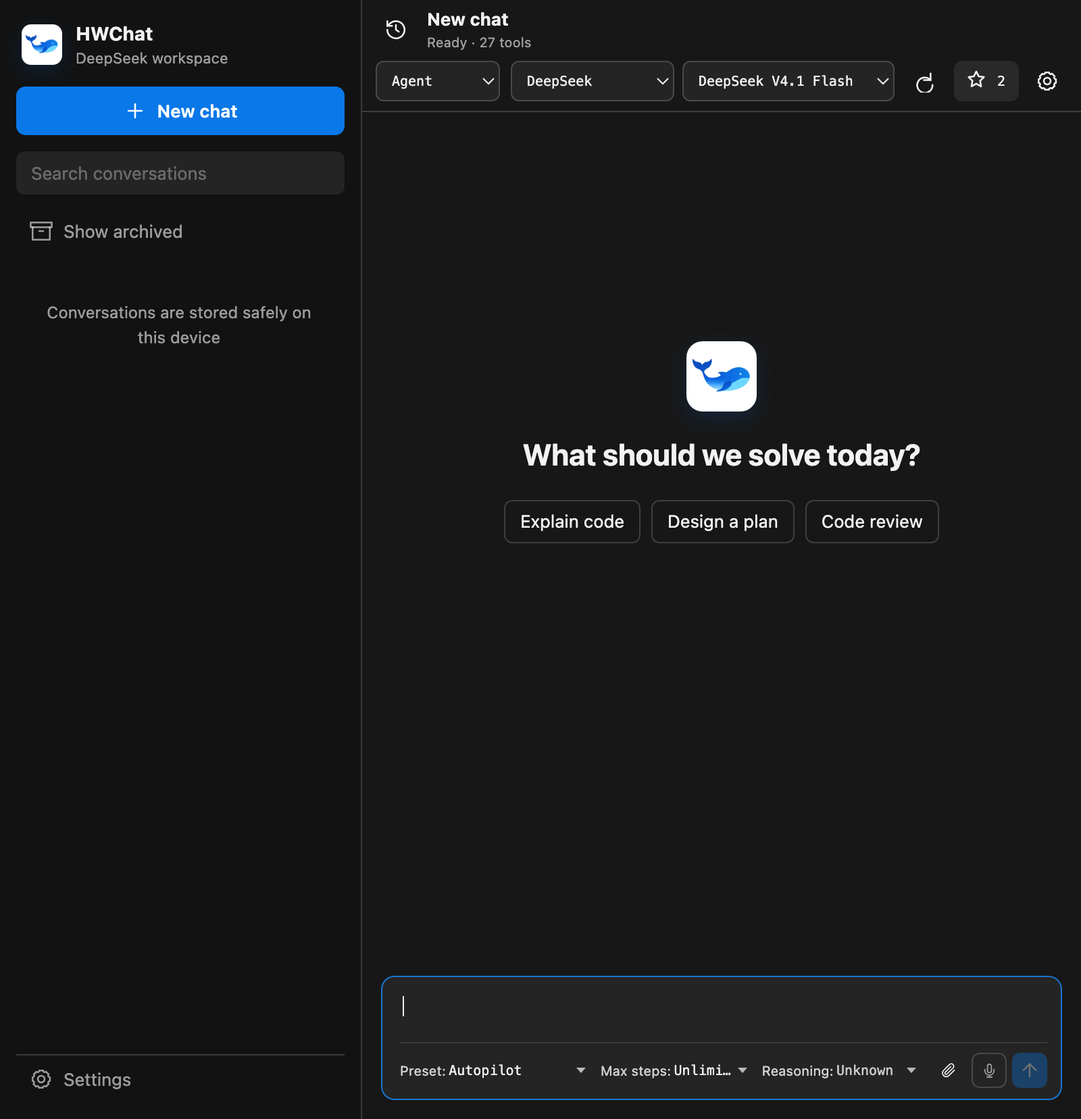
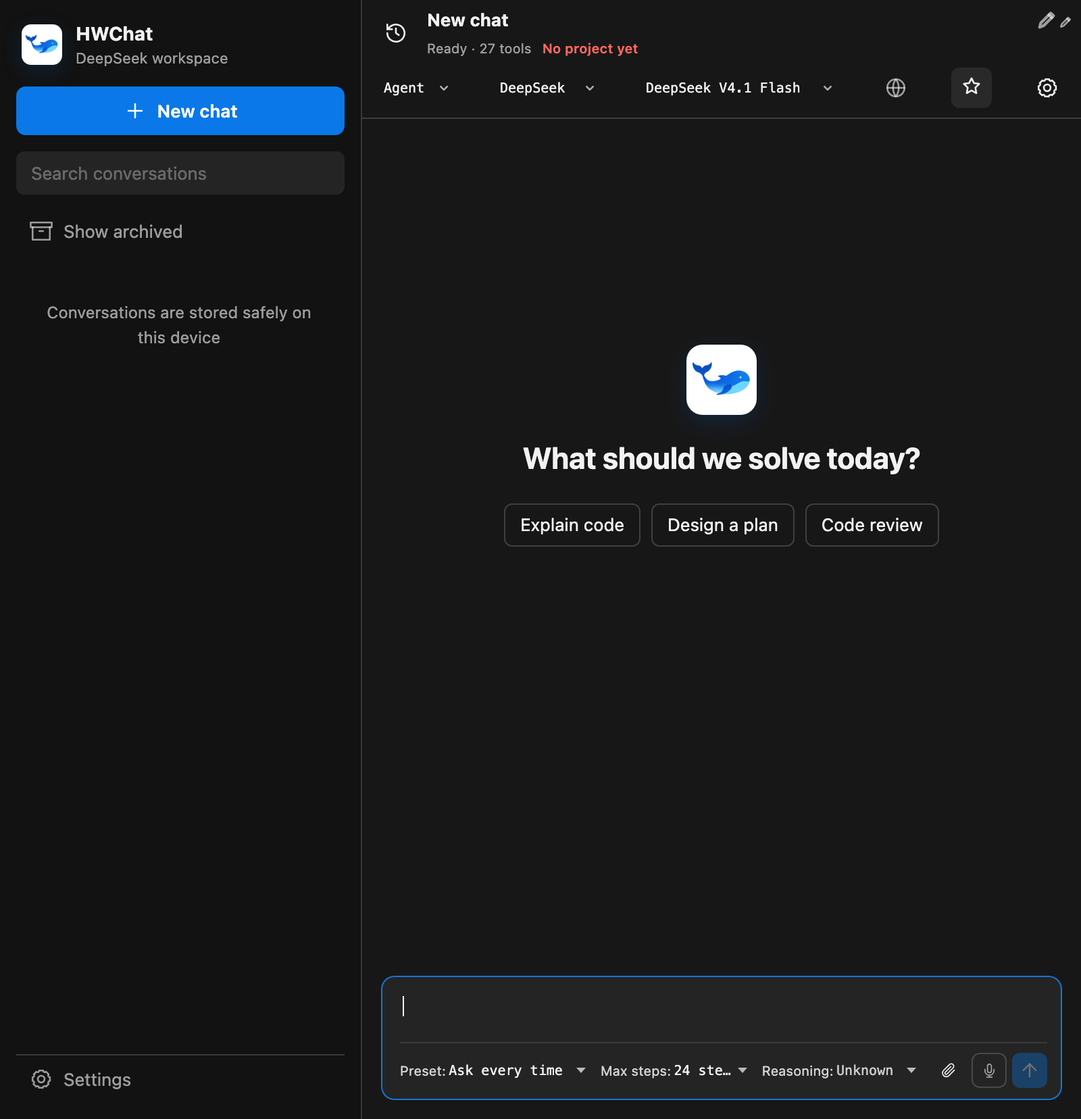
release: 0.3.8 — close the three audit gaps
1. hwchat.proxy and hwchat.searchExclude had no UI at all; the only way to set
   them was editing settings.json, and the proxy is precisely the escape hatch
   when requests fail (Node's fetch ignores HTTPS_PROXY, VS Code's http.proxy
   does not cover extensions). Adds "API proxy" under Connection (validated on
   save: socks:// rejected with a hint, malformed URLs refused, empty = direct)
   and "Search exclusions" under Agent (comma / ideographic comma / newline,
   normalised to a de-duplicated array, read back as the union across workspace
   roots because the setting is resource-scoped).

2. src/views/historyView.ts was dead code - HistoryViewProvider was written but
   never registered. Connected rather than deleted: the Explorer now shows an
   "HWChat conversations" tree (only when a folder is open) so history is
   reachable without opening the chat panel; it refreshes from onHistoryChanged
   and is disposed with the extension.

3. The README architecture table was stale: src/providers/ claimed to hold only
   the client (it also has netDiagnostics, netProbe and proxyFetch), src/core,
   src/agent and media were missing a dozen modules, and test/ claimed 44 checks
   while listing ~22 as if the list were exhaustive. Rewritten, with an explicit
   "run ls test/check-*.mjs for the full set" and both view entry points
   documented.

Also fixed the public screenshot: build.mjs referenced english['chat.unlimited']
[…]

diff --git a/src/views/settingsPanel.ts b/src/views/settingsPanel.ts
@@ -337,6 +337,7 @@ export class SettingsPanel implements vscode.Disposable {
             <label class="setting-row setting-row-stack"><span><strong>${t(lang, 'settings.models.label')}</strong><small>${t(lang, 'settings.models.hint')}</small></span><textarea id="profileModels" class="control mono" rows="4" spellcheck="false"></textarea></label>
             <label class="setting-row setting-row-stack"><span><strong>${t(lang, 'settings.headers.label')}</strong><small>${t(lang, 'settings.headers.hint')}</small></span><textarea id="requestHeaders" class="control mono" rows="4" spellcheck="false"></textarea></label>
             <label class="setting-row"><span><strong>${t(lang, 'settings.timeout.label')}</strong><small>${t(lang, 'settings.timeout.hint')}</small></span><span class="stepper"><input id="requestTimeoutSeconds" type="number" min="10" max="900"><span>${t(lang, 'common.seconds')}</span></span></label>
+            <label class="setting-row"><span><strong>${t(lang, 'settings.proxy.label')}</strong><small>${t(lang, 'settings.proxy.hint')}</small></span><input id="proxy" class="control mono" type="text" spellcheck="false" placeholder="http://127.0.0.1:7897"></label>
           </div>
         </section>
         <section id="generation" class="settings-section">
@@ -353,6 +354,7 @@ export class SettingsPanel implements vscode.Disposable {
           <div class="section-heading"><h2>${t(lang, 'settings.agent.title')}</h2><span id="trustState" class="status-pill">${t(lang, 'settings.trustStatePlaceholder')}</span></div>
           <div class="settings-group">
             <label class="setting-row"><span><strong>${t(lang, 'settings.defaultMode.label')}</strong><small>${t(lang, 'settings.defaultMode.hint')}</small></span><select id="defaultMode" class="control"><option value="agent">Agent</option><option value="plan">Plan</option><option value="chat">Chat</option></select></label>
+            <label class="setting-row"><span><strong>${t(lang, 'settings.searchExclude.label')}</strong><small>${t(lang, 'settings.searchExclude.hint')}</small></span><input id="searchExclude" class="control mono" type="text" spellcheck="false" placeholder="dist, .next, vendor"></label>
             <label class="setting-row"><span><strong>${t(lang, 'settings.commandTimeout.label')}</strong></span><span class="stepper"><input id="maxCommandSeconds" type="number" min="5" max="900"><span>${t(lang, 'common.seconds')}</span></span></label>
             <label class="setting-row"><span><strong>${t(lang, 'settings.readLimit.label')}</strong></span><span class="stepper"><input id="maxReadBytes" type="number" min="16384" max="5242880"><span>bytes</span></span></label>
             <label class="setting-row"><span><strong>${t(lang, 'settings.toolOutputLimit.label')}</strong></span><span class="stepper"><input id="maxToolOutputBytes" type="number" min="16384" max="2097152"><span>bytes</span></span></label>
@@ -449,6 +451,32 @@ function validateSettings(values: Partial<ChatSettings>): Partial<ChatSettings> 
   }
   if (values.permissionPreset !== undefined && !['askAll', 'review', 'autopilot', 'full'].includes(values.permissionPreset)) {
     throw new Error(tt('error.presetInvalid'));
+  }
+  /*
+   * 代理写错会让**所有**请求都失败，所以在保存时就拦下来，并明确说清不支持 socks://。
+   * 空字符串是合法的（= 直连），不要当成错误。
+   */
+  if (values.proxy !== undefined) {
+    const raw = String(values.proxy ?? '').trim();
+    if (raw) {
+      if (/^socks/i.test(raw)) throw new Error(tt('error.proxySocks'));
+      let parsed: URL;
+      try {
+        parsed = new URL(raw);
+      } catch {
+        throw new Error(tt('error.proxyInvalid'));
+      }
+      if (!['http:', 'https:'].includes(parsed.protocol)) throw new Error(tt('error.proxyInvalid'));
+      result.proxy = raw;
+    } else {
+      result.proxy = '';
+    }
+  }
+  if (values.searchExclude !== undefined) {
+    if (!Array.isArray(values.searchExclude) || values.searchExclude.some((item) => typeof item !== 'string')) {
+      throw new Error(tt('error.searchExcludeInvalid'));
+    }
+    result.searchExclude = [...new Set(values.searchExclude.map((item) => item.trim()).filter(Boolean))].slice(0, 100);
   }
   for (const key of ['fileReadPolicy', 'fileWritePolicy', 'commandPolicy', 'dangerousCommandPolicy', 'sensitiveFilePolicy'] as const) {
     const value = values[key];

diff --git a/src/core/i18n.ts b/src/core/i18n.ts
@@ -599,6 +599,8 @@ const DICTIONARY: Record<string, Entry> = {
   'settings.models.hint': { zh: '每行一个模型名，对话面板会显示为下拉列表', en: 'One model per line; the chat panel shows them as a dropdown' },
   'settings.headers.label': { zh: '额外请求头', en: 'Extra request headers' },
   'settings.headers.hint': { zh: 'JSON 对象，不包含 Authorization', en: 'JSON object, without Authorization' },
+  'settings.proxy.label': { zh: '接口代理', en: 'API proxy' },
+  'settings.proxy.hint': { zh: '留空表示直连。填 HTTP 代理，例如 http://127.0.0.1:7897（不支持 socks://，请填代理软件给出的 HTTP 端口）。扩展不会自动读取 HTTPS_PROXY 环境变量，也不会继承 VS Code 的 http.proxy。', en: 'Empty means direct. Use an HTTP proxy such as http://127.0.0.1:7897 (socks:// is not supported - use the HTTP port your proxy app exposes). The extension does not read HTTPS_PROXY or inherit VS Code http.proxy.' },
   'settings.timeout.label': { zh: '请求超时', en: 'Request timeout' },
   'settings.timeout.hint': { zh: '10–900 秒', en: '10–900 seconds' },
 
@@ -629,6 +631,8 @@ const DICTIONARY: Record<string, Entry> = {
   'settings.maxSteps.label': { zh: '新对话的最大执行步骤', en: 'Max agent steps for new chats' },
   'settings.maxSteps.hint': { zh: '默认 {default} 步，四档可选（含「无限制」）；也可在对话输入框下方即时调整，只影响当前对话', en: 'Defaults to {default} steps; four presets including Unlimited. Also adjustable under the composer, per conversation' },
   'settings.stepsUnit': { zh: '步', en: 'steps' },
+  'settings.searchExclude.label': { zh: '搜索排除目录', en: 'Search exclusions' },
+  'settings.searchExclude.hint': { zh: '逗号分隔，在内置排除（.git、node_modules、dist…）之外追加', en: 'Comma separated, added on top of the built-in list (.git, node_modules, dist…)' },
   'settings.commandTimeout.label': { zh: '命令超时', en: 'Command timeout' },
   'settings.readLimit.label': { zh: '单文件读取上限', en: 'Per-file read limit' },
   'settings.toolOutputLimit.label': { zh: '工具输出上限', en: 'Tool output limit' },
@@ -705,6 +709,9 @@ const DICTIONARY: Record<string, Entry> = {
 
   // 校验错误
   'error.headersInvalidJson': { zh: '额外请求头不是有效的 JSON。', en: 'Extra request headers are not valid JSON.' },
+  'error.proxySocks': { zh: '不支持 socks:// 代理，请填代理软件给出的 HTTP 端口（例如 http://127.0.0.1:7897）。', en: 'socks:// proxies are not supported. Use the HTTP port your proxy app exposes (for example http://127.0.0.1:7897).' },
+  'error.proxyInvalid': { zh: '代理地址无效，需要写成 http://主机:端口 的形式，留空表示直连。', en: 'Invalid proxy address. Use http://host:port, or leave it empty for a direct connection.' },
+  'error.searchExcludeInvalid': { zh: '搜索排除项必须是目录名列表。', en: 'Search exclusions must be a list of directory names.' },
   'error.headersNotObject': { zh: '额外请求头必须是 JSON 对象。', en: 'Extra request headers must be a JSON object.' },
   'error.headerValueNotString': { zh: '请求头 {key} 的值必须是字符串。', en: 'The value of header {key} must be a string.' },
   'error.profileIncomplete': { zh: '请补全每个 API 配置档的名称和接口地址。', en: 'Fill in the name and endpoint for every API profile.' },

diff --git a/src/core/settings.ts b/src/core/settings.ts
@@ -19,6 +19,34 @@ const SECTION = 'hwchat';
  */
 export const DEFAULT_REASONING_EFFORT: ReasoningEffort = 'default';
 
+/**
+ * 读出追加的搜索排除目录（全局 + 每个工作区根，取并集）。
+ *
+ * 与 `workspaceSearch.readConfiguredExcludes` 同一套语义：这是 resource 作用域的配置，
+ * 只看无 resource 的合并视图会在多根工作区里「写了但读不到」。设置页需要把用户写过的
+ * 全部条目原样显示出来，所以这里也按根逐个读再合并。
+ */
+function readSearchExclude(): string[] {
+  const collected = new Set<string>();
+  const add = (value: unknown): void => {
+    if (!Array.isArray(value)) return;
+    for (const item of value) {
+      if (typeof item !== 'string') continue;
+      const cleaned = item.trim();
+      if (cleaned) collected.add(cleaned);
+    }
+  };
+  try {
+    add(vscode.workspace.getConfiguration('hwchat').get<unknown>('searchExclude', []));
+    for (const folder of vscode.workspace.workspaceFolders ?? []) {
+      add(vscode.workspace.getConfiguration('hwchat', folder.uri).get<unknown>('searchExclude', []));
+    }
+  } catch {
+    return [...collected];
+  }
+  return [...collected];
+}
+
 export function readSettings(): ChatSettings {
   const configuration = vscode.workspace.getConfiguration(SECTION);
   const legacyBaseUrl = configuration.get<string>('baseUrl', 'https://api.deepseek.com');
@@ -61,6 +89,7 @@ export function readSettings(): ChatSettings {
     requestHeaders: activeProfile.requestHeaders,
     requestTimeoutSeconds: clamp(configuration.get<number>('requestTimeoutSeconds', 120), 10, 900),
     proxy: String(configuration.get<string>('proxy', '') ?? '').trim(),
+    searchExclude: readSearchExclude(),
     defaultMode: resolveConversationMode(configuration.get<unknown>('defaultMode'), 'agent'),
     agentMaxSteps: DEFAULT_AGENT_MAX_STEPS,
     reasoningEffort: DEFAULT_REASONING_EFFORT,
@@ -107,6 +136,7 @@ export async function updateSettings(values: Partial<ChatSettings>): Promise<voi
     ['maxReadBytes', values.maxReadBytes],
     ['maxToolOutputBytes', values.maxToolOutputBytes],
     ['maxCommandSeconds', values.maxCommandSeconds],
+    ['searchExclude', values.searchExclude],
     ['auditRetentionDays', values.auditRetentionDays],
     ['language', values.language === undefined ? undefined : normalizeLanguageSetting(values.language)],
   ];

diff --git a/media/settings.js b/media/settings.js
@@ -20,12 +20,12 @@
   }
 
   const fieldIds = [
-    'apiKey', 'profileName', 'profileModels', 'baseUrl', 'model', 'requestHeaders', 'requestTimeoutSeconds',
+    'apiKey', 'profileName', 'profileModels', 'baseUrl', 'model', 'requestHeaders', 'requestTimeoutSeconds', 'proxy',
     'temperature', 'maxTokens', 'maxMessagesInContext', 'sendOnEnter',
     'systemPrompt', 'historyRetentionDays', 'taskCacheRetentionHours',
     'cacheBudgetMB', 'cleanupIntervalMinutes', 'defaultMode',
     'maxReadBytes', 'maxToolOutputBytes',
-    'maxCommandSeconds', 'auditRetentionDays', 'language',
+    'maxCommandSeconds', 'auditRetentionDays', 'language', 'searchExclude',
   ];
   const fields = Object.fromEntries(fieldIds.map((id) => [id, document.getElementById(id)]));
   const elements = {
@@ -104,6 +104,7 @@
       model: selectedModel,
       requestHeaders,
       requestTimeoutSeconds: numberValue(fields.requestTimeoutSeconds, 120),
+      proxy: fields.proxy.value.trim(),
       temperature: numberValue(fields.temperature, 1),
       maxTokens: numberValue(fields.maxTokens, 0),
       maxMessagesInContext: numberValue(fields.maxMessagesInContext, 20),
@@ -118,6 +119,12 @@
       maxToolOutputBytes: numberValue(fields.maxToolOutputBytes, 200000),
       maxCommandSeconds: numberValue(fields.maxCommandSeconds, 120),
       auditRetentionDays: numberValue(fields.auditRetentionDays, 30),
+      // 用户在输入框里可能用逗号、顿号或换行分隔；统一拆成数组并去重去空。
+      searchExclude: fields.searchExclude.value
+        .split(/[,，\n]/)
+        .map((item) => item.trim())
+        .filter(Boolean)
+        .filter((item, index, list) => list.indexOf(item) === index),
     };
   }
 
@@ -198,6 +205,8 @@
     fields.apiKey.value = '';
     fields.apiKey.placeholder = apiKeyConfigured ? t('settings.apiKey.savedPlaceholder') : 'sk-…';
     fields.requestTimeoutSeconds.value = settings.requestTimeoutSeconds;
+    fields.proxy.value = settings.proxy || '';
+    fields.searchExclude.value = Array.isArray(settings.searchExclude) ? settings.searchExclude.join(', ') : '';
     fields.temperature.value = settings.temperature;
     fields.maxTokens.value = settings.maxTokens;
     fields.maxMessagesInContext.value = settings.maxMessagesInContext;

diff --git a/src/extension.ts b/src/extension.ts
@@ -15,6 +15,7 @@ import { formatProbeReport, probeEndpoint } from './providers/netProbe';
 import { fetchViaProxy } from './providers/proxyFetch';
 import { proxyEnv } from './providers/netDiagnostics';
 import { ChatPanel } from './views/chatPanel';
+import { HistoryViewProvider } from './views/historyView';
 import { SettingsPanel } from './views/settingsPanel';
 import { tt } from './core/i18n';
 
@@ -92,6 +93,18 @@ export async function activate(context: vscode.ExtensionContext): Promise<void> 
     (line) => output.warn(line),
   );
   let settingsPanel!: SettingsPanel;
+  /*
+   * 资源管理器里的「HWChat 对话」列表。
+   *
+   * 这个 provider 之前写了却从没注册过（盘点时发现的死代码）。接上的好处：不打开聊天
+   * 面板也能点开一条历史对话，而且面板关闭时历史依然可见。它只读 `listConversations`，
+   * 与面板侧栏是同一份数据，任何一侧改动都会通过 `onHistoryChanged` 触发刷新。
+   */
+  const historyView = new HistoryViewProvider(storage);
+  context.subscriptions.push(
+    vscode.window.registerTreeDataProvider('hwchat.historyView', historyView),
+    historyView,
+  );
   const chat = new ChatPanel(
     context.extensionUri,
     context.globalStorageUri,
@@ -102,6 +115,8 @@ export async function activate(context: vscode.ExtensionContext): Promise<void> 
     toolExecutor,
     {
       onHistoryChanged: () => {
+        // 两份列表读的是同一份存储：改名、置顶、归档、删除、运行状态都会走到这里。
+        historyView.refresh();
         void settingsPanel?.refresh();
       },
       openSettings: () => void settingsPanel.open(),

diff --git a/src/core/types.ts b/src/core/types.ts
@@ -322,6 +322,14 @@ export interface ChatSettings {
   cacheBudgetMB: number;
   cleanupIntervalMinutes: number;
   maxMessagesInContext: number;
+  /**
+   * 追加的搜索排除目录名（`hwchat.searchExclude`）。
+   *
+   * 声明为可选：这是 resource 作用域的配置（多根工作区里用户可能只写在某个根的
+   * `.vscode/settings.json` 里），读取侧由 `workspaceSearch` 逐根取并集；设置页只
+   * 负责把它呈现成一个逗号分隔的输入框并写回。可选能让既有测试夹具不必逐个补字段。
+   */
+  searchExclude?: string[];
   requestHeaders: Record<string, string>;
   requestTimeoutSeconds: number;
   /**

diff --git a/README.md b/README.md
@@ -315,7 +315,7 @@ The extension icon is `resources/logo.png`. Press `F5` in VS Code to launch the 
 - `hwchat.apiProfiles` / `hwchat.activeApiProfileId` — OpenAI-compatible profiles and the active one.
 - `hwchat.baseUrl` / `hwchat.model` — legacy-compatible endpoint and current default model.
 - `hwchat.defaultMode` / `hwchat.agentMaxSteps` — default mode and per-turn tool-loop budget. The budget **defaults to 24 and is capped at 200**; `0` (the old "unlimited") and invalid values fall back to the default, so an old saved conversation can never bypass the cap. When the budget runs out the agent stops calling tools, keeps every result, and tells you to reply "continue". **Both only seed new conversations**; once a conversation exists its own record wins and panel changes are written back to that conversation.
-- `hwchat.searchExclude` — extra directory names excluded from HWChat's workspace search, on top of the built-in list (`.git`, `node_modules`, `dist`, `build`, `out`, `coverage`, `.next`, `.turbo`, `.venv`, `venv`, `__pycache__`, `DerivedData`, `.cache`). Searches also run one at a time, identical concurrent searches are merged, and results are cached for ~1.5 s with invalidation on every write/save/delete. Commands get their own limit of two and drop to one at a time for 5 s after an `EAGAIN`-class resource error. The skill list is no longer rescanned on every state push (30 s freshness window plus request coalescing, with watcher-driven forced refreshes), command output is accumulated within a byte budget instead of re-encoding the whole buffer per chunk, and history is read once instead of twice at startup. `HWChat: Show resource stats` prints live search/command counters for troubleshooting.
+- `hwchat.searchExclude` — extra directory names excluded from HWChat's workspace search (editable in **Settings → Agent → Search exclusions**; commas, ideographic commas and newlines all work), on top of the built-in list (`.git`, `node_modules`, `dist`, `build`, `out`, `coverage`, `.next`, `.turbo`, `.venv`, `venv`, `__pycache__`, `DerivedData`, `.cache`). Searches also run one at a time, identical concurrent searches are merged, and results are cached for ~1.5 s with invalidation on every write/save/delete. Commands get their own limit of two and drop to one at a time for 5 s after an `EAGAIN`-class resource error. The skill list is no longer rescanned on every state push (30 s freshness window plus request coalescing, with watcher-driven forced refreshes), command output is accumulated within a byte budget instead of re-encoding the whole buffer per chunk, and history is read once instead of twice at startup. `HWChat: Show resource stats` prints live search/command counters for troubleshooting.
 - `hwchat.reasoningEffort` — five levels (default, none, low, high, max). The picker follows **what the model itself declares** (DeepSeek's `/models` lists `low`/`high`/`max` under `effort.supported_levels`; `none` is not in that list because it means "thinking off", so it is always offered for any reasoning-capable model). Choosing "none" really turns thinking off (`thinking: {type:'disabled'}` + `reasoning_effort: 'none'`). Endpoints without support get an automatic retry. Also only a default for new conversations.
 - `hwchat.permissionPreset`, `hwchat.agentMaxSteps`, `hwchat.reasoningEffort` — **deprecated, no effect**. Every new conversation starts at “Ask every time” / 24 steps / “Default (model)”; adjust the three under the composer for the current conversation (24 / 68 / 120 / unlimited; Default / none / the depths the model declares; four presets) and the choice is stored with that conversation. The keys stay registered only so old `settings.json` files do not report unknown settings.
 - `hwchat.fileReadPolicy` / `hwchat.fileWritePolicy` / `hwchat.commandPolicy` / `hwchat.dangerousCommandPolicy` / `hwchat.sensitiveFilePolicy` — fully derived from the preset; display-only, marked deprecated in the VS Code settings UI.
@@ -327,7 +327,7 @@ The extension icon is `resources/logo.png`. Press `F5` in VS Code to launch the 
 - **The message list only renders the screen you are looking at.** Copilot's chat list is VS Code's `WorkbenchObjectTree` — a virtualized list where off-screen rows have no DOM at all — while HWChat used to render every message it knew about. Measured: 600 messages with six tool steps each came to 38,400 nodes and **+231.6 MB** of renderer memory, at a flat ~0.39 MB per message from 50 to 600 messages. Now only the viewport (plus eight messages of overscan on each side) is in the DOM, with two spacer blocks holding the height of the rest: **+23.4 MB / 706 nodes**, and a 200-message conversation drops from +83.1 MB to **+16.3 MB**. Three promises hold this together: a window swap re-anchors on the message at the top of the viewport and its exact on-screen offset (so scrollbar drags, PageUp and loading older messages never jump), the bottom is pixel-exact because the last window has no trailing spacer, and details you expanded are remembered in `detailOverrideStore` so they are still expanded when you scroll back. Conversations under 60 messages still render in full — at that size it is a few MB and not worth the complexity. **The trade-off**: a selection can only span messages currently in the DOM, and "scroll to latest" jumps instead of animating (a smooth animation re-measures the scroll height every frame, so its target goes stale immediately).
 - **State pushes only carry what changed**: when the message list is unchanged (pinning, archiving, settings), HWChat no longer re-sends the first page of message bodies — on a real 1513-message conversation the first 80 messages alone are 5.39 MB and one push costs ~27ms of main-thread work, while `sendState()` has 22 call sites. The signature covers id / status / `updatedAt` / content and reasoning length / tool count with last-step status and output length / attachment count, so a real content change always differs; a rebuilt webview bumps the generation to force a full push. The attachment cache is pruned on the cleanup heartbeat (30 days / 200 MB, never touching files written in the last hour).
 - Automatic cache cleanup never blocks the UI: it is queued **one conversation per task** instead of one 154-line task holding the write queue (measured during cleanup: sends wait 41ms median / 169ms worst, while the whole round is 366–761ms), the first scan is delayed to 20s after activation to avoid VS Code's own startup I/O, and automatic heartbeats **stand aside while a conversation is running** (the manual "Clean cache now" still runs). A full round over a real 63.4MB archive takes 761ms on an idle machine — a multi-second entry in the log means the disk was busy with something else, not that the algorithm is slow.
-- `hwchat.proxy` — HTTP proxy for API requests (e.g. `http://127.0.0.1:7897`); **empty means direct**. It has to be set by hand, for two measured reasons: Node's `fetch` (undici) **ignores** `HTTPS_PROXY` (pointing the proxy at a dead port still connects directly), and VS Code's `http.proxy` does not cover extensions (*"Extensions don't benefit yet from the same proxy support that VS Code supports"*). When set, requests go through a real `CONNECT` tunnel (proxy auth supported; `socks://` is not — use the proxy's HTTP port). Nothing is auto-detected on purpose: a leftover env var pointing at a closed port would break the direct route that works.
+- `hwchat.proxy` — HTTP proxy for API requests (e.g. `http://127.0.0.1:7897`); **empty means direct**. Editable in **Settings → Connection → API proxy**; saving validates it (a `socks://` URL is rejected with a hint to use the HTTP port, malformed URLs are refused). It has to be set by hand, for two measured reasons: Node's `fetch` (undici) **ignores** `HTTPS_PROXY` (pointing the proxy at a dead port still connects directly), and VS Code's `http.proxy` does not cover extensions (*"Extensions don't benefit yet from the same proxy support that VS Code supports"*). When set, requests go through a real `CONNECT` tunnel (proxy auth supported; `socks://` is not — use the proxy's HTTP port). Nothing is auto-detected on purpose: a leftover env var pointing at a closed port would break the direct route that works.
 - Connection failures no longer surface as a bare `fetch failed`: the message carries the **real cause and a fix** (DNS failure / connection refused / timeout / certificate replaced by a proxy), and HWChat retries only when no response headers were received (2 retries, 400ms then 1200ms) — never after a response, so nothing gets billed twice. Every network event is logged to the `[net]` lines of the HWChat output panel, and `HWChat: Test endpoint connectivity` reports DNS → TCP → TLS (protocol + certificate expiry) → HTTP with timings, plus a proxy-tunnel check when a proxy is configured.
 - **The timeout measures silence, not total duration**: `hwchat.requestTimeoutSeconds` (120 by default) used to cap the whole stream — one timer armed at request start, aborting at the deadline. A long answer or a turn with several tool calls therefore failed at second 120 even while every token was arriving, leaving only "Request timed out (120s)." Every chunk now resets the clock, so a request only times out after **N seconds with no bytes at all**, and the message says exactly that.
 - **Server overload is retried**: `503 Service is too busy` / `429` / `500` / `502` / `504` mean the request was **not processed**, so HWChat retries with 400ms → 1200ms → 3600ms backoff (4 attempts max; a `Retry-After` header wins, capped at 10s). `401` / `400` are never retried — retrying them would only cost money. When retries run out, the message says the overload is temporary and that sending again usually works.
@@ -339,13 +339,15 @@ Conversation data lives in the VS Code global storage directory and is never wri
 
 | Path | Contents |
 | --- | --- |
-| `src/core/` | i18n, settings, permissions, storage, approval plans, task lists (`todos.ts`, `todoArchives.ts`) and model capabilities / reasoning depths (`modelCapabilities.ts`) |
-| `src/agent/` | agent loop, tool executor, path isolation, file reference resolution, project scope (git gate), version-bump gate, skills, task queue |
-| `src/views/` | chat panel, settings panel, history view |
-| `src/providers/` | DeepSeek / OpenAI-compatible client |
-| `media/` | webview scripts and styles; `ui-icons.js` holds every interface icon shape (flat inline SVG, `currentColor` only) and is unit-tested; `inline-append.js` decides when a streaming delta can be appended as plain text, `stream-repair.js` completes unterminated tail markdown (both pure functions, unit-tested) |
-| `docs/screenshots/` | screenshot build script and the generated English screenshot |
-| `test/` | browser preview pages (`preview-*.html`) and 44 standalone checks run with plain `node` — DOM / geometry (`check-panel-exclusivity.mjs`, `check-capsule-geometry.mjs`, `check-capsule-drag.mjs`, `check-icons-dom.mjs`, `check-icon-geometry.mjs`, `check-file-reference-dom.mjs`, `check-stream-patch.mjs`, `check-tool-detail-lazy.mjs`, `check-list-virtualization.mjs`, `check-git-push-tier.mjs`, `check-git-access.mjs`, `check-request-timeout.mjs`, `check-command-location.mjs`, `check-todo-capsule.mjs`, `check-webview-scripts.mjs`), behaviour wiring (`check-todo-actions.mjs`, `check-todo-scope.mjs`, `check-resume-scope.mjs`, `check-runtime-controls.mjs`, `check-skill-toggle.mjs`, `check-command-notify.mjs`, `check-title-editing.mjs`, `check-draft-isolation.mjs`), storage safety (`check-storage-trash.mjs`) |
+| `src/core/` | settings and validation, permissions (four presets, command tiers, path rules), conversation storage and cleanup, recycle bin, approval-plan bridge to VS Code, task lists (`todos.ts`, `todoArchives.ts`), decision gate, model capabilities, i18n (`i18n.ts`), ids and atomic JSON helpers |
+| `src/agent/` | agent loop and stop conditions (`agentRunner.ts`, `agentLimits.ts`), tool executor and every guard (path isolation, sensitive files, git gate, version-bump gate, command risk), skills, task queue / router / review, search scheduler, workspace search, file-reference resolution, web research and extraction, the prompt fragments (`todoPrompt`, `replyShapePrompt`, `followUpPrompt`, `noticePrompt`, `commandPrompt`), audit log, network retry helpers |
+| `src/views/` | chat panel (webview host + message protocol), settings panel, explorer history list (`historyView.ts`), webview shell, render signature |
+| `src/providers/` | OpenAI-compatible streaming client, network diagnostics and classified retries (`netDiagnostics.ts`), staged connectivity probe (`netProbe.ts`), real CONNECT proxy tunnel (`proxyFetch.ts`) |
+| `media/` | webview assets. `chat.js` renders the panel; the pure, unit-tested helpers are `code-block-meta` (fence location/tool), `follow-up-format` (checkbox stripping), `secret-scan` (credential warning), `todo-panel-state`, `callout-meta` (notice severity), `file-reference`, `toast-timing`, `inline-append` (when a delta can be appended as plain text), `stream-repair` (unterminated tail markdown), `ui-icons` (every icon shape, inline SVG with `currentColor`) |
+| `docs/screenshots/` | screenshot build script, the generated English page and the README image |
+| `test/` | `preview-*.html` fixtures plus 46 standalone checks run with plain `node`. Only a representative subset is listed here — run `ls test/check-*.mjs` for the full set. Coverage areas: DOM / geometry (`check-panel-exclusivity`, `check-capsule-geometry`, `check-capsule-drag`, `check-icons-dom`, `check-icon-geometry`, `check-file-reference-dom`, `check-stream-patch`, `check-tool-detail-lazy`, `check-list-virtualization`, `check-command-location`), behaviour wiring (`check-todo-actions`, `check-todo-capsule`, `check-todo-scope`, `check-resume-scope`, `check-runtime-controls`, `check-skill-toggle`, `check-skill-routing`, `check-command-notify`, `check-title-editing`, `check-draft-isolation`, `check-send-latency`, `check-stream-scroll`, `check-state-payload`), safety and policy (`check-storage-trash`, `check-git-access`, `check-git-push-tier`, `check-secret-warning`, `check-memory-budget`, `check-request-timeout`, `check-network-diagnostics`, `check-webview-scripts`, `check-settings-coverage`, `check-screenshot-dict`) |
+
+Two entry points ship as views: the webview chat panel in the side bar, and a plain tree list of conversations in the Explorer (`HWChat conversations`, only when a folder is open) so history is reachable without opening the panel.
 
 The screenshot is generated with `node docs/screenshots/build.mjs`. It reuses the real webview CSS and the real English dictionary, so the image matches the shipped UI, and it renders an empty new conversation: no conversations, messages, task list, attachments or typed input are included.
 

diff --git a/README.zh-CN.md b/README.zh-CN.md
@@ -321,12 +321,16 @@ npm run package
 - `media/stream-repair.js`（`repairStreamingMarkdown` / `needsRepair`）：把**尾部还没写完的那一段** markdown 补全再渲染（依据 Vercel Streamdown 的 `remend` 做法）——`**重点` → `**重点**`、`**重点*`（收尾符只写一半）只补 1 个、`` `npm test `` → 补反引号、`[文字](htt` → 换成安全锚点 `#` 让文字立刻收敛成链接文字。星号按**配对扫描**而不是数奇偶；单个 `~` 是字面量（`20~25` 不会被补成删除线）；围栏代码块里不补；只补尾部，前面已完成的段落一个字符都不动。`needsRepair()` 给渲染侧用：尾部仍需补全时禁止原地追加，否则 `**重` 会被当纯文字贴死、等收尾符到了才跳变。单测在 `src/test/streamRepair.test.ts`。
 - 消息区在 CSS 里显式 `overflow-anchor: none`：滚动位置每帧由 HWChat 按 `autoFollow` 决定，浏览器再补偿一次就会互相打架（MDN《scroll anchoring》里明确：只有自己接管滚动时才需要关掉它）。
 
+## 出厂的两个入口
+
+侧栏里的 **webview 聊天面板**负责对话；此外资源管理器里还有一个纯树形的 **`HWChat 对话`** 列表（仅在有打开文件夹时出现），不打开面板也能点开一条历史对话。两者读同一份存储，改名 / 置顶 / 归档 / 删除 / 运行状态都会同时刷新。
+
 ## 主要配置
 
 - `hwchat.apiProfiles` / `hwchat.activeApiProfileId`：OpenAI 兼容接口配置档和当前配置档。
 - `hwchat.baseUrl` / `hwchat.model`：兼容旧版配置，并保存当前默认接口和模型。
 - `hwchat.defaultMode` / `hwchat.agentMaxSteps`：默认模式和单轮工具循环预算。预算**默认 24 步、绝对上限 200 步**；`0`（旧的「不限制」）和非法值一律回落到默认值，所以历史会话里存着的旧值无法绕过上限。预算用尽时 Agent 会停止调用工具、保留全部已有结果，并提示回复「继续」接着执行。**这两项只作为新对话的初始值**，对话开始后以该对话自己的存档为准（工具条上的改动写回对话，不改全局）。
-- `hwchat.searchExclude`：在默认排除列表（`.git`、`node_modules`、`dist`、`build`、`out`、`coverage`、`.next`、`.turbo`、`.venv`、`venv`、`__pycache__`、`DerivedData`、`.cache`）之外，额外不参与工作区搜索的目录名。搜索同时只跑一个，相同参数的并发搜索会合并，结果缓存约 1.5 秒并在每次写入/保存/删除后立即失效；命令单独并发上限为 2，遇到 `EAGAIN` 一类资源错误后 5 秒内降为串行。技能清单不再跟着每次状态重发扫描（30 秒新鲜窗口 + 并发合并，文件变化由 watcher 强制刷新），命令输出按字节有界累积（截断后不再随输出增长重复编码），启动时历史读取也只做一遍。排查资源占用时可用命令 `HWChat: 显示资源统计` 查看实时的搜索与命令计数。
+- `hwchat.searchExclude`：**设置页 → Agent → 「搜索排除目录」可直接编辑**（逗号 / 顿号 / 换行分隔都认）。在默认排除列表（`.git`、`node_modules`、`dist`、`build`、`out`、`coverage`、`.next`、`.turbo`、`.venv`、`venv`、`__pycache__`、`DerivedData`、`.cache`）之外，额外不参与工作区搜索的目录名。搜索同时只跑一个，相同参数的并发搜索会合并，结果缓存约 1.5 秒并在每次写入/保存/删除后立即失效；命令单独并发上限为 2，遇到 `EAGAIN` 一类资源错误后 5 秒内降为串行。技能清单不再跟着每次状态重发扫描（30 秒新鲜窗口 + 并发合并，文件变化由 watcher 强制刷新），命令输出按字节有界累积（截断后不再随输出增长重复编码），启动时历史读取也只做一遍。排查资源占用时可用命令 `HWChat: 显示资源统计` 查看实时的搜索与命令计数。
 - `hwchat.reasoningEffort`：默认、无、低、高、最大五档思考层级；不支持该参数的兼容接口会自动降级重试。同样只作为新对话的默认值。
 - `hwchat.permissionPreset` / `hwchat.agentMaxSteps` / `hwchat.reasoningEffort`：**已废弃，不再生效**。每一条新对话固定从「每次询问 / 24 步 / 默认（模型官方）」开始，这三项在输入框下方的工具条里按对话调整（24 / 68 / 120 / 不限制；默认 / 无 / 模型自己声明的档位；四档权限预设），选择随该对话存档。保留这三个配置键只为让旧的 `settings.json` 不报「未知配置项」。
 - `hwchat.fileReadPolicy` / `hwchat.fileWritePolicy` / `hwchat.commandPolicy` / `hwchat.dangerousCommandPolicy` / `hwchat.sensitiveFilePolicy`：这五项策略完全由预设推导，只用于设置页展示，手动写入不生效（在 VS Code 设置里已标记为弃用）。
@@ -338,7 +342,7 @@ npm run package
 - **消息列表只渲染视口附近那一屏（窗口化）**：Copilot 的聊天列表用的是 VS Code 的 `WorkbenchObjectTree`（虚拟化列表，视口外的行根本没有 DOM），而 HWChat 以前是全量 DOM —— 状态里有多少条消息，DOM 里就有多少条。实测 600 条 × 每条 6 个工具步骤 = 38,400 个节点 = 渲染进程 **+231.6 MB**；每条消息约 0.39 MB，且 50 → 600 条完全线性。现在只把视口附近（上下各 8 条 overscan）放进 DOM，其余用两个占位块撑出高度，实测 **+23.4 MB / 706 个节点**（200 条 6 步的对话从 +83.1 MB 降到 **+16.3 MB**，约 5 倍）。三条承诺：换窗口时按「视口顶部那条消息 + 它的屏幕偏移」对齐（滚动条拖拽、PageUp、补载历史都不跳）、窗口落在末尾时贴底是精确的、滚出窗口的展开状态记在 `detailOverrideStore` 里滚回来照样是展开的。少于 60 条时仍整段渲染 —— 那个规模只有几 MB，不值得为它引入复杂度。**代价**：跨越多屏的消息已不在 DOM 里，所以「从第一条拖选到最后一条」这类跨窗口选字只能选到窗口内的部分；窗口化列表的「回到最新消息」是直接跳到底（平滑滚动每帧都在重算滚动高度，目标值一开始就过期）。
 - **状态推送只传变化的部分**：消息列表没变（切换置顶、归档、改设置等）时不再重复下发首页消息正文 —— 实测一条 1513 条消息的对话，首页 80 条就有 5.39 MB、单次推送约 27ms，而 `sendState()` 有 22 处调用点。签名由「id / 状态 / `updatedAt` / 正文与推理长度 / 工具步骤与输出长度 / 附件数」组成，正文真变了必定不同；webview 被重建时代次 +1 强制全量。附件缓存在清理心跳里按「30 天 / 200 MB」回收（1 小时内写过的文件不动）。
 - 自动缓存清理**不会拖住界面**：它按「一条对话一个任务」入队（整轮不再独占写队列，实测清理期间发消息中位等 41ms、最坏 169ms，而整轮本身 366–761ms），首次扫描延后到激活后 20 秒以避开 VS Code 自身的启动 I/O，并且**有对话在跑时自动心跳直接让路**（手动「立即清理缓存」照跑）。同一份 63.4MB 档案在空闲机器上跑一轮清理是 761ms —— 日志里若出现几十秒，那是当时磁盘被别的进程占着，不是清理算法本身。
-- `hwchat.proxy`：接口请求走的 HTTP 代理（如 `http://127.0.0.1:7897`），**留空表示直连**。必须手动填，原因有两条实测依据：Node 的 `fetch`（undici）**不读** `HTTPS_PROXY` 环境变量（把代理指向死端口，fetch 依然直连成功），VS Code 的 `http.proxy` 也不覆盖扩展（官方文档：*Extensions don't benefit yet from the same proxy support that VS Code supports*）。填了之后请求会走真正的 CONNECT 隧道（支持带账号密码的代理；不支持 `socks://`，请填代理软件提供的 HTTP 端口）。不会自动探测环境变量：残留一个指向已关闭端口的代理变量时，自动启用会把原本可用的直连弄坏。
+- `hwchat.proxy`：接口请求走的 HTTP 代理（**设置页 → 连接 → 「接口代理」可以直接填**，保存时会校验：`socks://` 明确报错、非法地址拒绝、留空表示直连）（如 `http://127.0.0.1:7897`），**留空表示直连**。必须手动填，原因有两条实测依据：Node 的 `fetch`（undici）**不读** `HTTPS_PROXY` 环境变量（把代理指向死端口，fetch 依然直连成功），VS Code 的 `http.proxy` 也不覆盖扩展（官方文档：*Extensions don't benefit yet from the same proxy support that VS Code supports*）。填了之后请求会走真正的 CONNECT 隧道（支持带账号密码的代理；不支持 `socks://`，请填代理软件提供的 HTTP 端口）。不会自动探测环境变量：残留一个指向已关闭端口的代理变量时，自动启用会把原本可用的直连弄坏。
 - 连接失败时不再只有一句 `fetch failed`：错误会带上**真实原因与建议**（DNS 解析失败 / 端口拒绝 / 连接超时 / 证书被代理中间人替换），并且只在「连响应头都还没拿到」时自动重试 2 次（400ms、1200ms），拿到响应之后的失败一律不重试，避免重复计费。所有网络事件（重试、最终失败）都写进 HWChat 输出面板的 `[net]` 行。命令 `HWChat: 测试网络连接` 会分四段诊断并报出耗时：DNS 解析 → TCP 连接 → TLS 握手（协议版本与证书有效期）→ HTTP 请求；配了代理时会额外验证代理隧道。
 - **超时按「多久没有数据」算，不按「整条回复总时长」算**：`hwchat.requestTimeoutSeconds`（默认 120）以前是整条流的总时长上限 —— 定时器只设一次，一到点就掐断。于是模型写长回答、或一轮里反复调用工具时，哪怕每个 token 都在到达，第 120 秒照样失败，界面只显示「请求超时（120 秒）」。现在每一段数据都会重新计时，只有**连续 N 秒一个字节都没来**才判超时；文案也改成「连续 N 秒没有收到任何数据」。
 - **服务端过载会自动重试**：`503 Service is too busy` / `429` / `500` / `502` / `504` 这类响应意味着请求**没有被处理**，HWChat 会按 400ms → 1200ms → 3600ms 退避重发（最多 4 次，服务端给了 `Retry-After` 就听它的，上限 10 秒）；`401` / `400` 这类请求本身有问题的**一次都不重试**，免得白花钱。重试用尽后提示里会说明「这是服务端临时过载，稍后再发一次通常就能过」。

diff --git a/CHANGELOG.md b/CHANGELOG.md
@@ -1,13 +1,25 @@
 # Changelog
 
-## Unreleased
+## 0.3.8
+
+- **补上盘点出的三个缺口：代理与搜索排除现在有设置界面、资源管理器多了「HWChat 对话」列表、README 架构表重写**（用户原话：「缺口要做，版本号0.3.8」）。
+  - **① `hwchat.proxy` 与 `hwchat.searchExclude` 原来没有任何界面**，只能在 `settings.json` 里手写 —— 而代理恰恰是网络故障时的救命项（Node 的 `fetch` 不读 `HTTPS_PROXY`，VS Code 的 `http.proxy` 也不覆盖扩展）。
+    - 连接区新增「接口代理」输入框（占位 `http://127.0.0.1:7897`），保存前校验：`socks://` 明确报错并提示填代理软件给出的 HTTP 端口、非法 URL 拒绝、留空表示直连。
+    - Agent 区新增「搜索排除目录」，逗号 / 顿号 / 换行分隔都能识别，保存时归一成去重数组；读取侧按**每个工作区根**取并集（`hwchat.searchExclude` 是 resource 作用域，只看合并视图会「写了但读不到」）。
+    - 新增 `test/check-settings-coverage.mjs` **89 项守护**：每个**未废弃**的配置项必须登记编辑方式（input / profile / internal），登记为 input 的必须同时具备「设置页控件 + webview 字段清单 + `updateSettings` 写回」三段，新增配置项忘了接 UI 会当场变红。
+  - **② `src/views/historyView.ts` 是死代码**：`HistoryViewProvider` 写完了却从没注册（package.json 没这个视图、`extension.ts` 没 `registerTreeDataProvider`）。
+    - 选择**接上**而不是删掉：资源管理器新增「HWChat 对话 / HWChat conversations」分组（`when: workspaceFolderCount > 0`），不打开聊天面板也能点开一条历史对话；`onHistoryChanged` 里同步刷新，provider 随扩展一起 dispose。
+  - **③ README 的架构表过时**：`src/providers/` 只写「DeepSeek client」（实际还有 `netDiagnostics` / `netProbe` / `proxyFetch`），`src/core` / `src/agent` / `media` 漏了十来个文件，`test/` 说 44 个却只列了约 22 个、读起来像穷举。
+    - 重写为如实的分组描述 + 明确「`test/` 只列代表用例，全部用 `ls test/check-*.mjs` 查」；`media/` 补上 `code-block-meta` / `follow-up-format` / `secret-scan` / `todo-panel-state` / `callout-meta` / `file-reference` / `toast-timing` / `inline-append` / `stream-repair`。
+    - 新增「命令与视图」一行，说明除了 webview 面板还有资源管理器里的历史列表。
+  - **④ 顺手修掉 README/商店宣传图里的一个错字**：截图构建脚本引用了 `english['chat.unlimited']`，而词表里的键叫 `chat.stepsUnlimited`，于是 `undefined` 被插进 HTML、被 CSS 省略号截成 **「Max steps: undefi…」**，那张图正是 README 与商店页用的。现在键值修正，并把截图里的运行时下拉从预览页的演示值（Autopilot / 无限制）改写成**产品规则里的新对话默认值**（每次询问 / 24 步 / 默认思考深度）—— 否则等于用官方图宣传一个更宽松的默认。
+    - 新增 `test/check-screenshot-dict.mjs` **6 项守护**：引用的 158 个词表键必须全部存在、示例状态必须改写成默认值、生成的页面里不许出现 `undefined`。
 
 - **盘点功能清单时发现两个「文档说有、测试全绿、线上没接」的错漏，都已修**。
   - **① `inline-append.js` 与 `stream-repair.js` 从来没被注入面板 HTML（真 bug，影响线上）**。两个模块写了、单测了、README 与 CHANGELOG 都写着「纯文本直接追加」「半截 markdown 先补全再渲染」，但 `src/views/chatPanel.ts` 的脚本清单里根本没有它们 —— 只有 `test/preview-chat.html` 加载了。于是线上 `globalThis.HWChatInlineAppend` / `HWChatStreamRepair` 恒为 `undefined`：**快路径永不生效、补全永不生效**，而所有浏览器守护跑的都是 preview 页，所以一直全绿。
     - 修法：把两个模块补进面板的 `mediaUri` + `<script>`；新增 `test/check-webview-scripts.mjs` **34 项守护** —— preview 加载的每个辅助脚本面板必须也加载、面板加载的预览页也必须加载、`chat.js` 必须最后加载，并且 `chat.js` 读的每个 `globalThis.HWChatXxx` 都必须有对应脚本注入（新加模块漏接会当场变红）。
   - **② 设置页把「对话保留」写成了会过期**。0.3.6 起的规则是「HWChat 不会自己让任何一条对话消失」，该设置现在只决定**多老的对话会在清理时被瘦身缓存**（工具输出 / 推理），对话本身永不删除。但界面文案仍是「对话保留 / 固定的对话不会过期」，读起来像「到期会删」。
     - 修法：改为「缓存瘦身起点」，说明写清「对话本身永远不会被删除」。
-  - 全量：**918** 条单测、**44** 个 `check-*.mjs` 全绿。
 
 - **命令块必须标清「在哪台机器上跑」；守卫拦截后要换策略，不要换拼法硬撞**（用户原话：「需要我执行的命令，代码块要区分是服务器上执行还是本地终端执行，为什么现在不区分本地还是服务器了」，以及「三次失败就停止了任务，为什么不直接更改执行策略使用工作区内的文件夹」）。
   - **① 位置标注不再可能「静默缺失」**。规则其实一直在（`src/agent/commandPrompt.ts` 要求 `loc=local` / `loc=server`），渲染层也支持，但模型经常只写 `tool=bash` 漏掉 `loc=`，而渲染层在这种情况下**什么都不显示** —— 标题栏只剩「工具：bash」，用户完全看不出该贴本地还是服务器。
@@ -29,7 +41,8 @@
   - 后端链路：提示词要求多步任务先写清单 → `update_todos` 下发给模型 → `updateTodos()` 落库并推 `todos` → **全部完成时当场归档**（`planCompletedList`，不等这轮结束）→ 推 `todoArchives` → 一轮结束还有 `planTodoSettlement` 兜底。
   - 前端渲染（真实浏览器）：3 项清单（完成/进行中/待办三种状态）正确渲染；2 份归档变成 2 颗胶囊、颜色不同、带「N/N 完成」的无障碍名称；点胶囊展开那份清单并显示「已归档 · 时间 · N/N 完成」；同一时刻只有一颗是选中态；再点收起；归档清空后整条栏隐藏。
 
-- **全量验证**：**918** 条单测、**43** 个 `check-*.mjs` 全绿。
+
+- **全量验证**：**918** 条单测、**46** 个 `check-*.mjs` 全绿。
 
 ## 0.3.7
 
